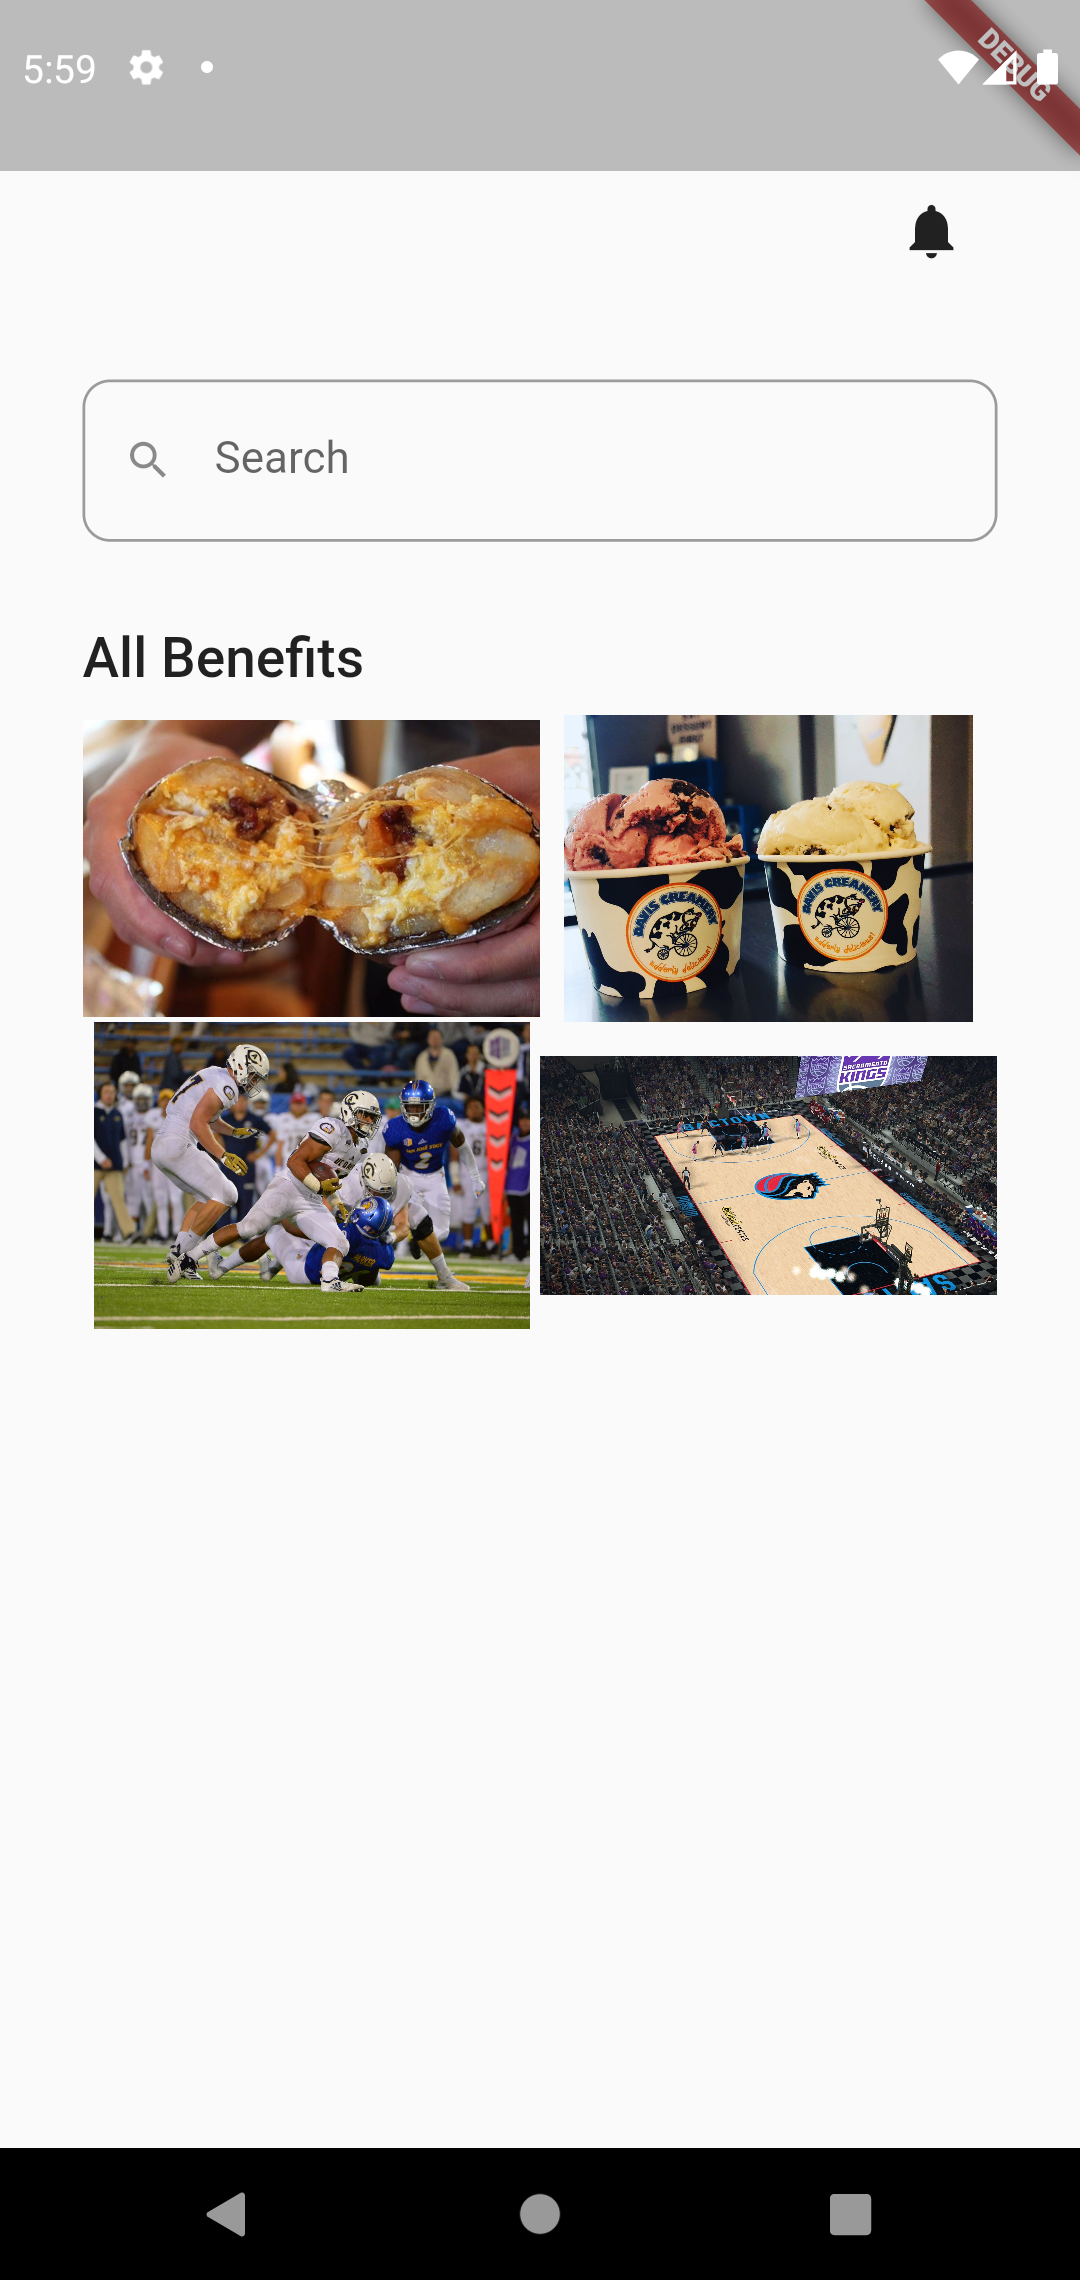
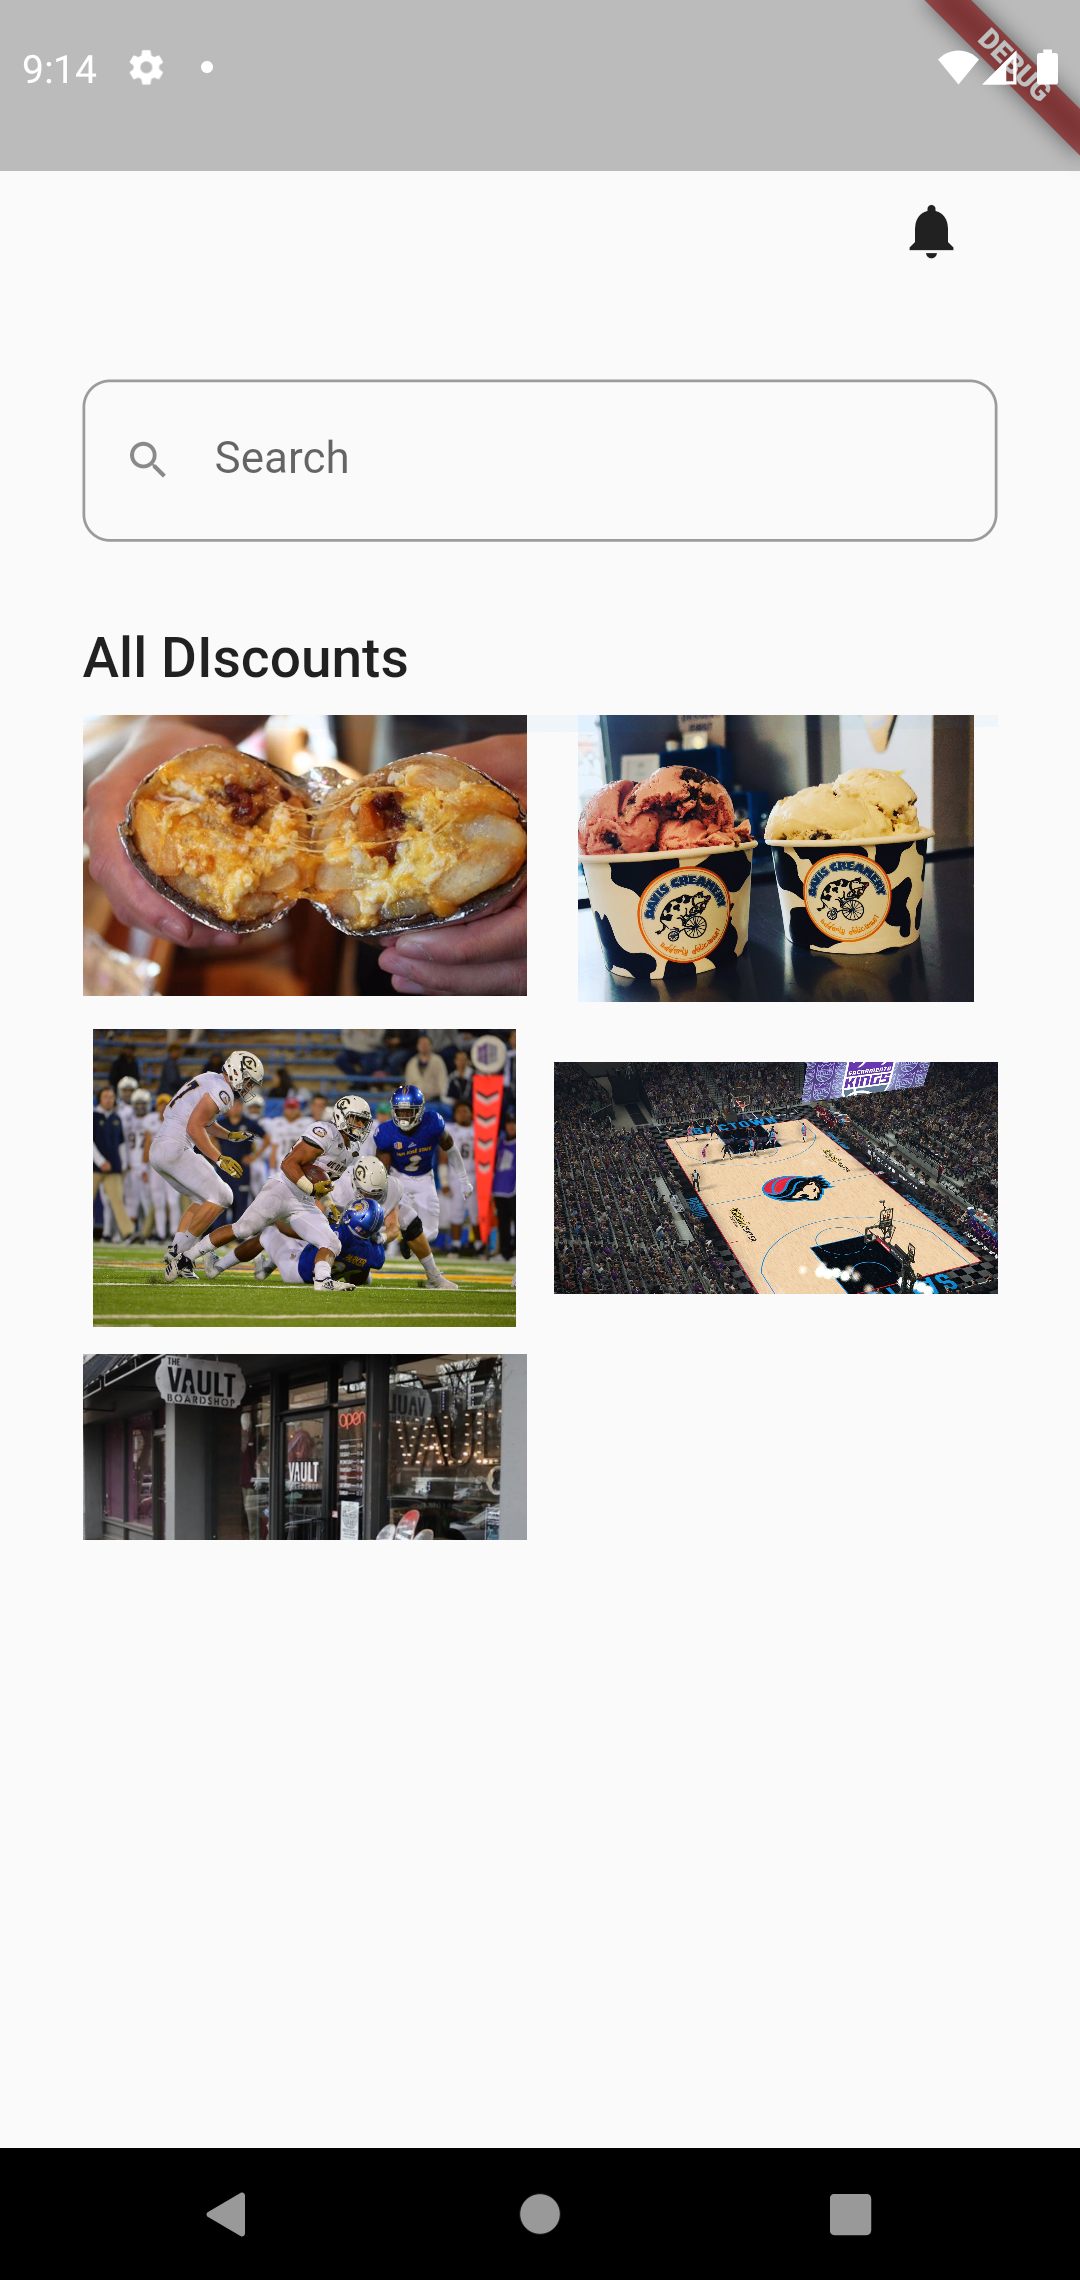
Added more pictures and made menu scrollable

Changed region(s): [[0.0611, 0.2803, 0.9472, 0.6851]]

diff --git a/lib/main.dart b/lib/main.dart
@@ -43,7 +43,7 @@ class HomePage extends StatelessWidget {
                 hintText: 'Search'),
           ),
           SizedBox(height: 30),
-          Text('All Benefits',
+          Text('All DIscounts',
               style: TextStyle(fontWeight: FontWeight.w600, fontSize: 20)),
           SizedBox(height: 10),
           SizedBox(
@@ -52,10 +52,12 @@ class HomePage extends StatelessWidget {
                 padding: EdgeInsets.zero,
                 crossAxisCount: 2,
                 childAspectRatio: 1.491,
-                physics: NeverScrollableScrollPhysics(),
+                crossAxisSpacing: 10,
+                mainAxisSpacing: 10,
+                // physics: NeverScrollableScrollPhysics(),
                 children: [
-                  for (var benefit in benefits)
-                    Image.asset('assets/images/$benefit.png')
+                  for (var discount in discounts)
+                    Image.asset('assets/images/$discount.png')
                 ]),
           )
         ],
@@ -64,9 +66,10 @@ class HomePage extends StatelessWidget {
   }
 }
 
-final benefits = [
+final discounts = [
   'Ali_Baba',
   'Davis_Creamery',
   'UC_Davis_Football',
-  'Sac_Kings'
+  'Sac_Kings',
+  'The_Vault'
 ];
